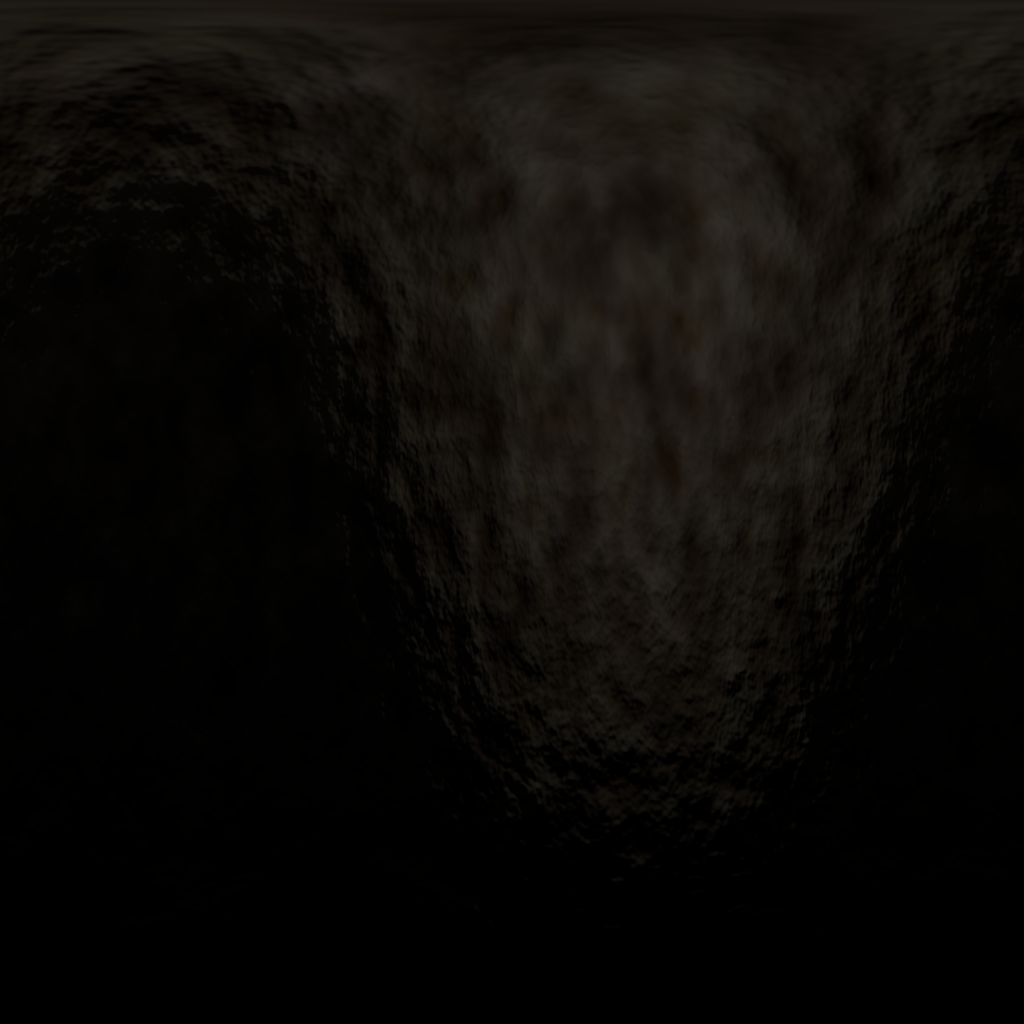
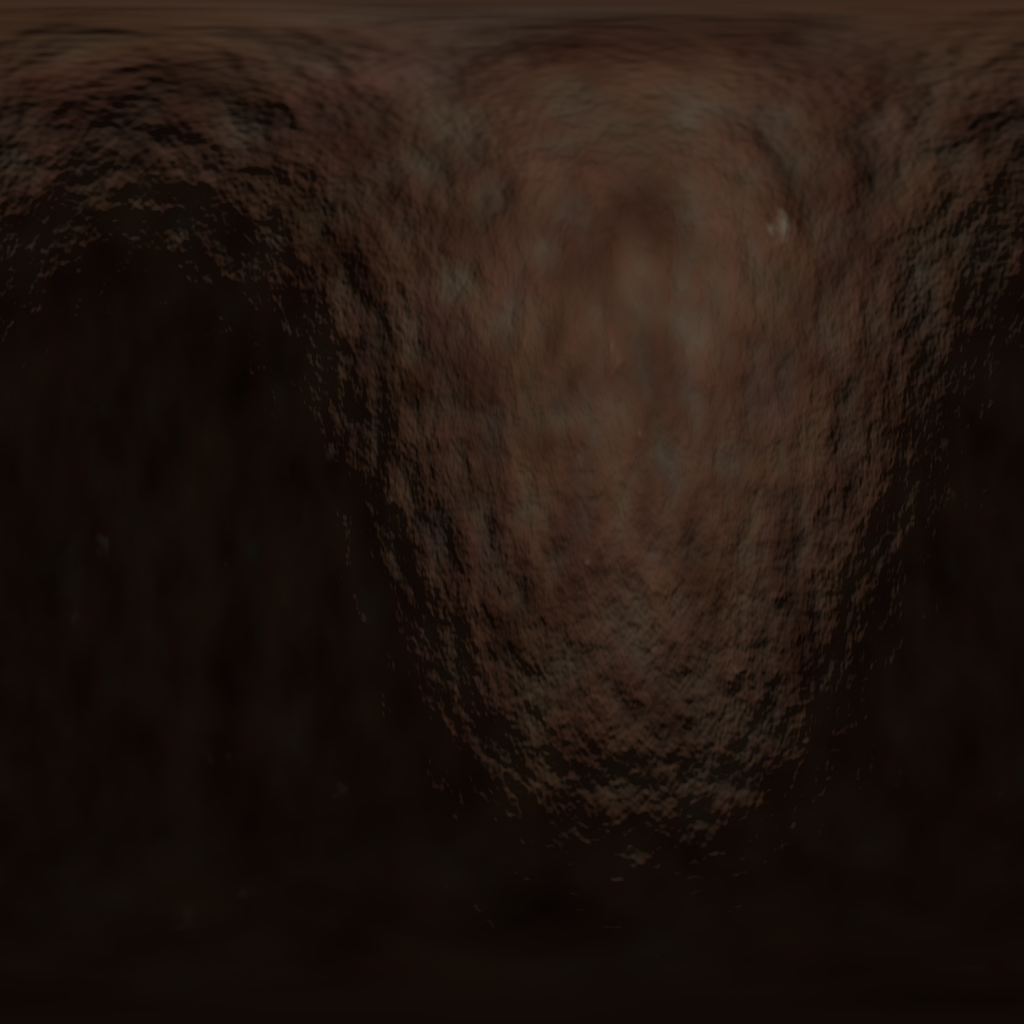
lightened planet texture. reduced motion blur factor.

diff --git a/planetswidget.cpp b/planetswidget.cpp
@@ -54,6 +54,9 @@ void PlanetsWidget::initializeGL() {
     glEnable(GL_DEPTH_TEST);
     glDepthFunc(GL_LEQUAL);
 
+    glEnable(GL_CULL_FACE);
+    glCullFace(GL_BACK);
+
     glEnable(GL_TEXTURE_2D);
 
     glEnable(GL_BLEND);
@@ -147,7 +150,7 @@ void PlanetsWidget::paintGL() {
     glDisable(GL_TEXTURE_2D);
 
     if(motionBlur){
-        glAccum(GL_ADD, -0.001f*delay);
+        glAccum(GL_ADD, -0.002f*delay);
         glAccum(GL_ACCUM, 0.999f);
     }
 
